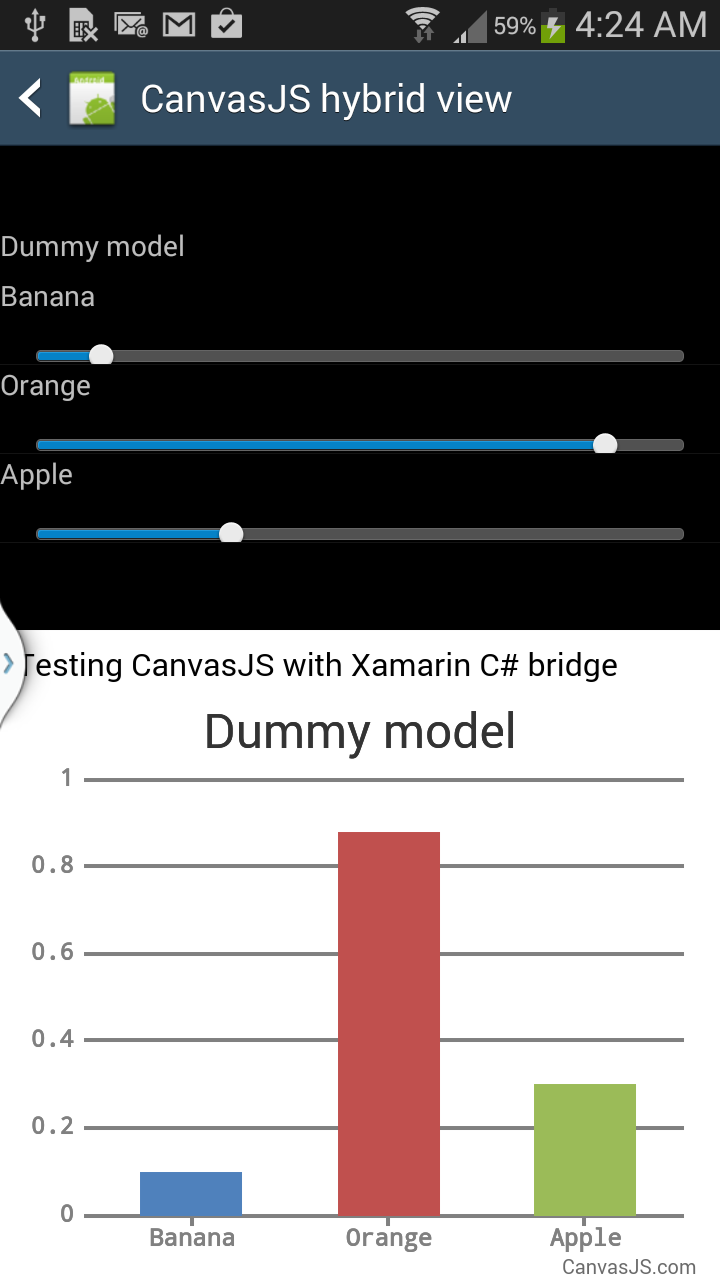
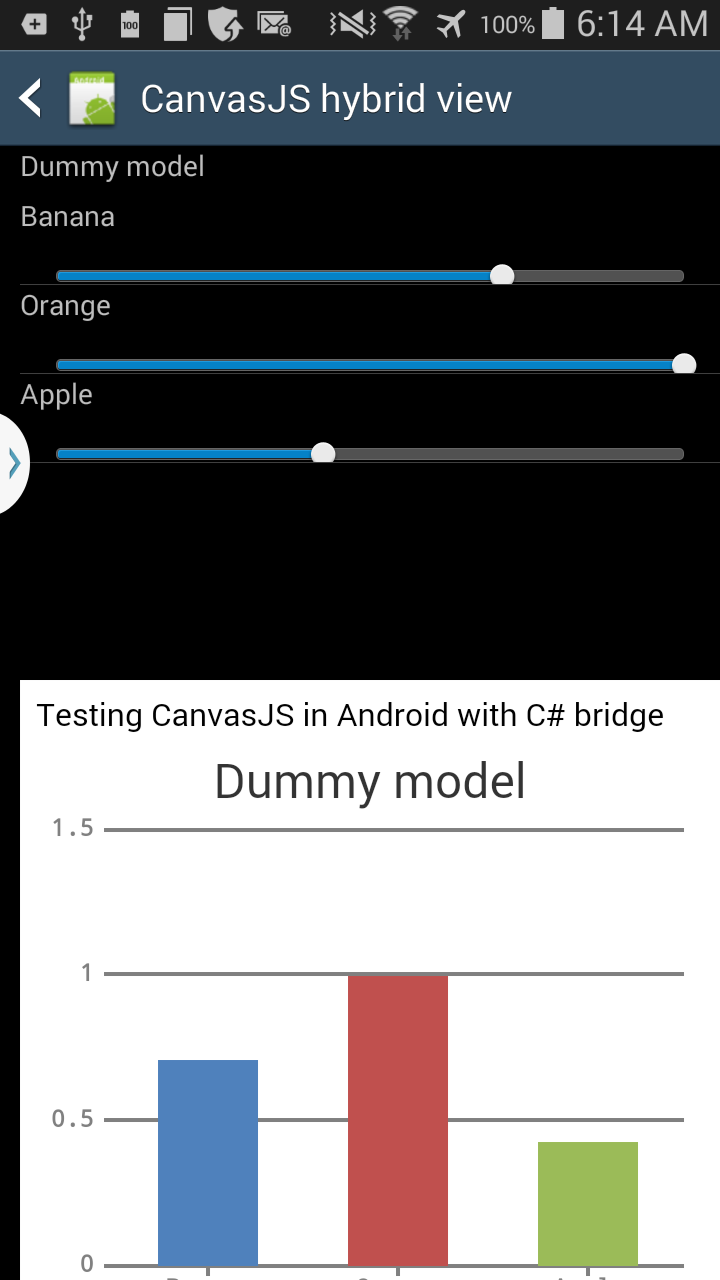
Android & iOS hybrid screenshots

diff --git a/Samples/XLabs.Sample.WP/HTML/home.html b/Samples/XLabs.Sample.WP/HTML/home.html
@@ -1,9 +1,9 @@
 
 <!DOCTYPE html>
 <html>
-	<head>
-		<title>Testing CanvasJS with Xamarin C# bridge</title>
-	</head>
+    <head>
+        <title>Testing CanvasJS with Xamarin C# bridge</title>
+    </head>
 <body>
     <div id="os"></div>
 </body>
@@ -11,22 +11,23 @@
     <div id="chartContainer" style="height: 300px; width: 100%;"></div>
     <script type="text/javascript" src="canvasjs.min.js"></script>
 
-<script type="text/javascript">
-    var os, h;
+    <script type="text/javascript">
+        var os, h;
 
-    if (navigator.platform == "Win32") {
-        os = "WP8";
-        h = "600px";
-    } else if (navigator.platform == "ios") {
+        if (navigator.platform == "Win32") {
+            os = "WP8";
+            h = "600px";
+        } else if (navigator.appVersion.indexOf("Linux") != -1) {
+            os = "Android";
+            h = "300px";
+        } else {
+            os = navigator.platform;
+            h = "300px";
+        }
 
-    } else {
-        os = "Android";
-        h = "300px";
-    }
-
-    document.getElementById("os").innerHTML = "Testing CanvasJS in " + os + " with C# bridge";
-    document.getElementById("chartContainer").style.height = h;
-</script>
+        document.getElementById("os").innerHTML = "Testing CanvasJS in " + os + " with C# bridge";
+        document.getElementById("chartContainer").style.height = h;
+    </script>
     <script language="javascript">
         var chart;
         var points;

diff --git a/Samples/XLabs.Sample/Pages/Mvvm/CanvasWebHybrid.xaml b/Samples/XLabs.Sample/Pages/Mvvm/CanvasWebHybrid.xaml
@@ -19,7 +19,7 @@
           <DataTemplate>
             <ViewCell>
               <ViewCell.View>
-                <StackLayout HeightRequest="100">
+                <StackLayout HeightRequest="120">
                   <Label Text="{Binding Label}" />
                   <Slider Value="{Binding Y, Mode=TwoWay}" />
                   <!--							<Slider Maximum="{Binding Max}"></Slider>-->
